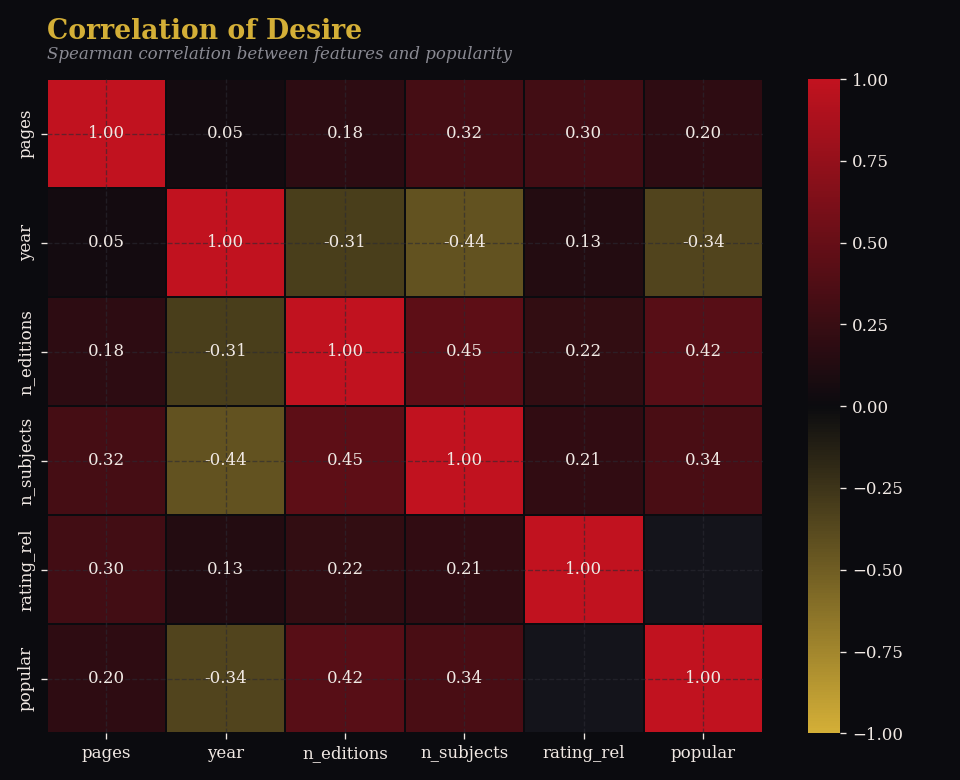
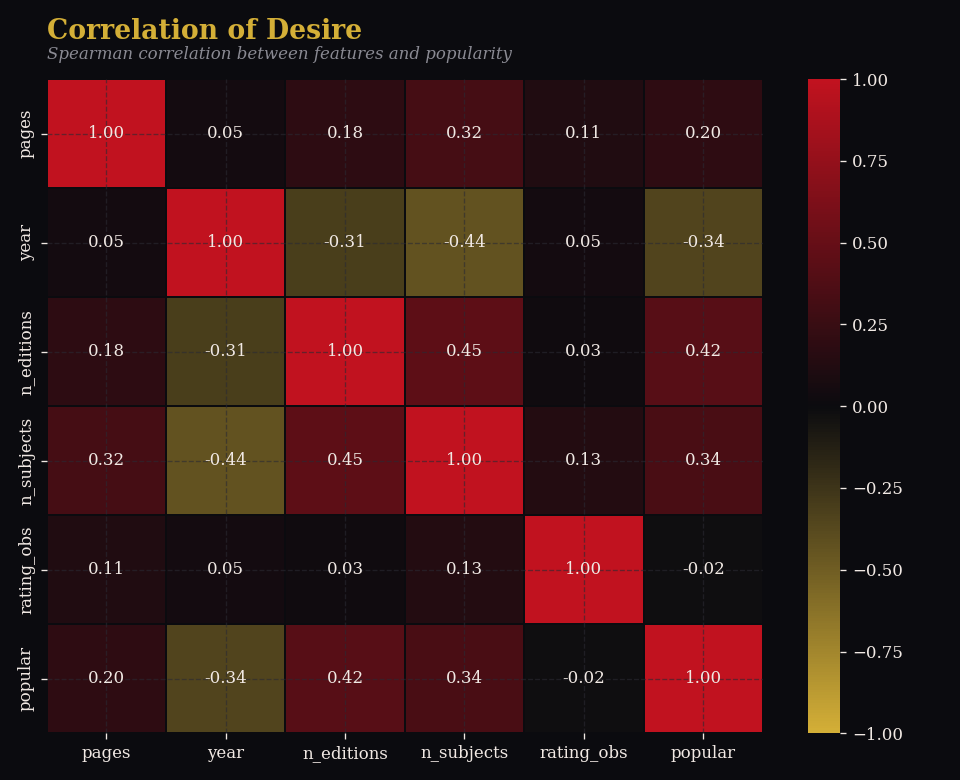
Fix rating test in notebook 02 and add rating group-size check

diff --git a/notebooks/02_eda_statistical_analysis.py b/notebooks/02_eda_statistical_analysis.py
@@ -38,7 +38,7 @@ clean = pd.read_csv(ROOT / "data" / "books_clean.csv")
 df = clean[clean["popular"].notna()].copy()
 df["popular"] = df["popular"].astype(int)
 df["label"] = df["popular"].map({0: "Not popular", 1: "Popular"})
-df["rating_rel"] = df["rating"].where(df["rating_reliable"] == 1)
+df["rating_obs"] = df["rating"].where(df["n_ratings"].fillna(0) >= 1)
 df["log_wtr"] = np.log10(df["want_to_read"] + 1)
 ORDER = ["Not popular", "Popular"]
 
@@ -58,11 +58,11 @@ print(df["label"].value_counts())
 num_features = ["pages", "year", "n_editions", "n_subjects"]
 summary = df.groupby("label")[num_features].agg(["count", "mean", "median", "std"]).round(2).T
 display(summary)
-display(df[num_features + ["rating_rel"]].describe().T.round(2))
+display(df[num_features + ["rating_obs"]].describe().T.round(2))
 
 # %%
 rows = []
-for c in ["pages", "year", "n_editions", "n_subjects", "rating_rel"]:
+for c in ["pages", "year", "n_editions", "n_subjects", "rating_obs"]:
     s = df[c].dropna()
     _, p_norm = stats.normaltest(s)
     rows.append({"feature": c, "n": len(s), "skewness": round(float(stats.skew(s)), 2), "normality_p": p_norm})
@@ -78,7 +78,7 @@ display(normality)
 # ## 2. Relationships between variables
 
 # %%
-corr_cols = ["pages", "year", "n_editions", "n_subjects", "rating_rel", "popular"]
+corr_cols = ["pages", "year", "n_editions", "n_subjects", "rating_obs", "popular"]
 corr = df[corr_cols].corr(method="spearman")
 fig, ax = plt.subplots(figsize=(8, 6.5))
 sns.heatmap(corr, annot=True, fmt=".2f", cmap=DIVERGING_CMAP, center=0, vmin=-1, vmax=1,
@@ -116,13 +116,17 @@ results = []
 
 
 def log_result(hypothesis, test, stat, p, effect_name, effect):
+    if np.isnan(p):
+        decision = "Test not valid (NaN)"
+    else:
+        decision = "Reject H0" if p < 0.05 else "Fail to reject H0"
     results.append({
         "hypothesis": hypothesis,
         "test": test,
         "statistic": round(float(stat), 3),
         "p_value": float(p),
         "effect_size": f"{effect_name} = {effect:.3f}",
-        "decision (alpha 0.05)": "Reject H0" if p < 0.05 else "Fail to reject H0",
+        "decision (alpha 0.05)": decision,
     })
 
 
@@ -138,17 +142,33 @@ for col, name in [("pages", "page count"), ("year", "publication year"),
     log_result(f"H0: {name} is the same for popular and not-popular books", "Mann-Whitney U", u, p, "rank-biserial r", r)
 
 # %%
-# H2: average rating differs between popular and not-popular books (Welch t-test, books with 5+ ratings)
-a = df.loc[(df["popular"] == 1) & df["rating_rel"].notna(), "rating_rel"]
-b = df.loc[(df["popular"] == 0) & df["rating_rel"].notna(), "rating_rel"]
-t, p = stats.ttest_ind(a, b, equal_var=False)
-d = (a.mean() - b.mean()) / np.sqrt((a.var(ddof=1) + b.var(ddof=1)) / 2)
-print(f"Mean rating: popular = {a.mean():.2f} (n={len(a)}), not popular = {b.mean():.2f} (n={len(b)})")
-print(f"Welch t = {t:.3f}, p = {p:.4g}, Cohen's d = {d:.3f}")
-u2, p2 = stats.mannwhitneyu(a, b, alternative="two-sided")
-print(f"Robustness check (Mann-Whitney U): p = {p2:.4g}")
-log_result("H0: mean rating is the same for popular and not-popular books (5+ ratings)",
-           "Welch t-test", t, p, "Cohen's d", d)
+# Why ratings need care: how many books of each group have at least k ratings?
+rows = []
+for k in [1, 2, 3, 5]:
+    has = df["n_ratings"].fillna(0) >= k
+    rows.append({"min_ratings": k,
+                 "popular_books": int((has & (df["popular"] == 1)).sum()),
+                 "not_popular_books": int((has & (df["popular"] == 0)).sum())})
+display(pd.DataFrame(rows))
+
+# %%
+# H2: average rating differs between popular and not-popular books (Welch t-test, any observed rating)
+# Note: averages built from very few ratings are noisy, so this is read with caution.
+a = df.loc[(df["popular"] == 1) & df["rating_obs"].notna(), "rating_obs"]
+b = df.loc[(df["popular"] == 0) & df["rating_obs"].notna(), "rating_obs"]
+print(f"Group sizes: popular n = {len(a)}, not popular n = {len(b)}")
+
+if len(a) >= 2 and len(b) >= 2:
+    t, p = stats.ttest_ind(a, b, equal_var=False)
+    d = (a.mean() - b.mean()) / np.sqrt((a.var(ddof=1) + b.var(ddof=1)) / 2)
+    print(f"Mean rating: popular = {a.mean():.2f}, not popular = {b.mean():.2f}")
+    print(f"Welch t = {t:.3f}, p = {p:.4g}, Cohen's d = {d:.3f}")
+    u2, p2 = stats.mannwhitneyu(a, b, alternative="two-sided")
+    print(f"Robustness check (Mann-Whitney U): p = {p2:.4g}")
+    log_result("H0: mean rating is the same for popular and not-popular books (any observed rating)",
+               "Welch t-test", t, p, "Cohen's d", d)
+else:
+    print("Not enough rated books in one group, so the t-test is skipped.")
 
 # %%
 # H3: subject tags and popularity (Chi-square, Bonferroni-adjusted)
@@ -198,13 +218,18 @@ ax.legend()
 save_show(fig, "10_tag_popularity_rates.png")
 
 # %%
-# H4: is missing page count related to popularity? (Chi-square)
+# H4: is a missing page count related to popularity? (Chi-square)
 res = chi_binary("pages_missing")
 if res is not None:
     chi2, p, v, wr, wor, n_with = res
     print(f"Popular rate when pages missing = {wr:.1%}, when pages present = {wor:.1%}")
     print(f"Chi-square = {chi2:.3f}, p = {p:.4g}, Cramer's V = {v:.3f}")
     log_result("H0: a missing page count is unrelated to popularity", "Chi-square test", chi2, p, "Cramer's V", v)
+
+# %% [markdown]
+# **Note for the report:** a missing page count, few editions and few subject tags all describe a thinly
+# documented catalogue record. Records tend to be completed when a book is popular, so part of what the models
+# learn is how well documented a book is, not only what makes it popular. This is stated as a limitation.
 
 # %%
 # H5: want-to-read counts differ across publication periods (ANOVA and Kruskal-Wallis on log counts)
